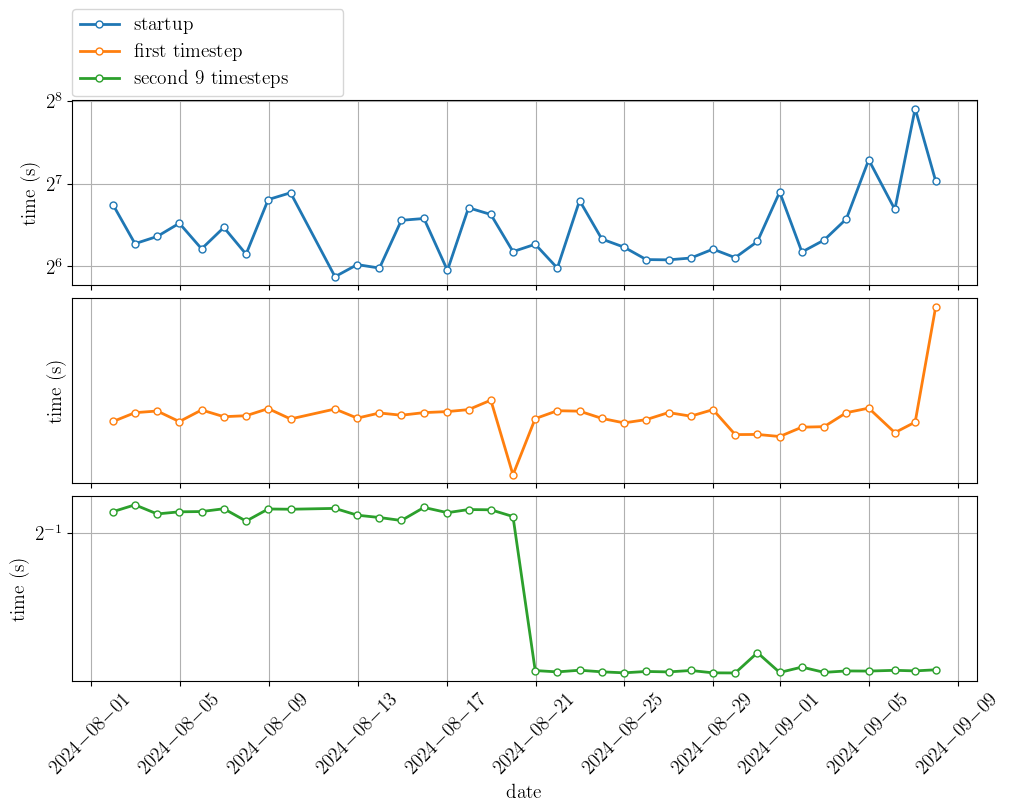
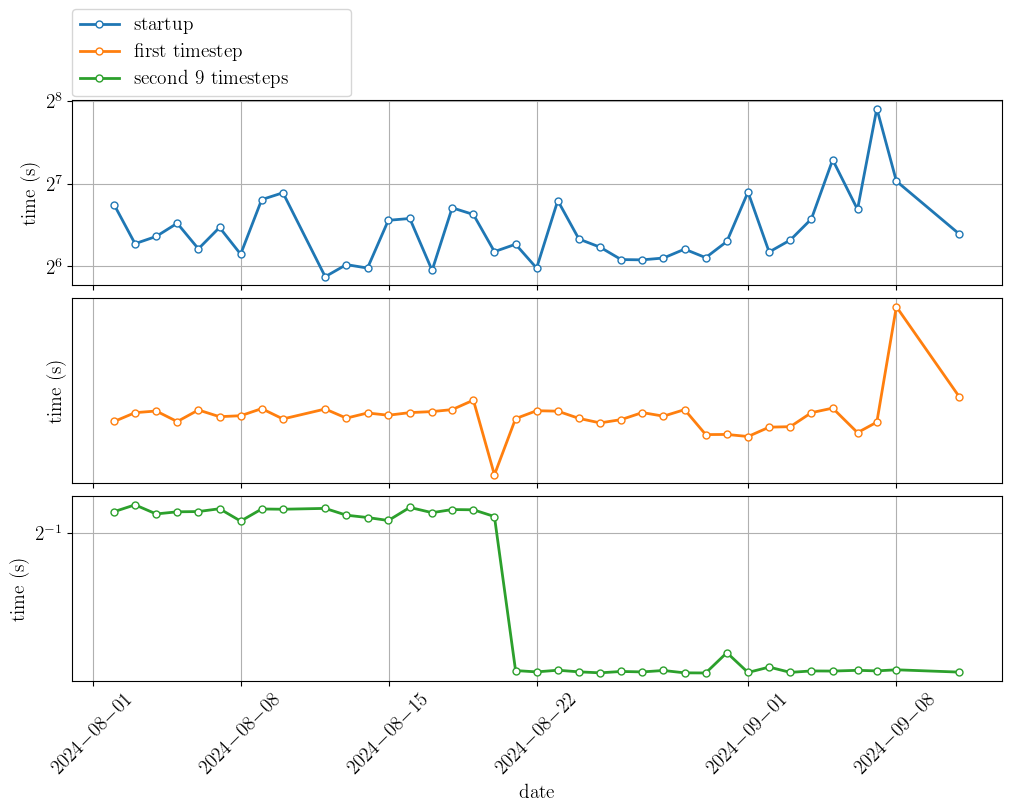
Automatic timing summary commit:

diff --git a/README.md b/README.md
@@ -1,4 +1,4 @@
-# Timing status (last ran on: 2024.09.09)
+# Timing status (last ran on: 2024.09.10)
 
 [![y3-prediction-scalability](https://github.com/illinois-ceesd/timing/actions/workflows/y3-prediction-scalability.yaml/badge.svg)](https://github.com/illinois-ceesd/timing/actions/workflows/y3-prediction-scalability.yaml) [![y2-prediction-timing](https://github.com/illinois-ceesd/timing/actions/workflows/y2-prediction-timing.yaml/badge.svg)](https://github.com/illinois-ceesd/timing/actions/workflows/y2-prediction-timing.yaml) [![isolator-timing](https://github.com/illinois-ceesd/timing/actions/workflows/isolator-timing.yaml/badge.svg)](https://github.com/illinois-ceesd/timing/actions/workflows/isolator-timing.yaml) [![flame1d-timing](https://github.com/illinois-ceesd/timing/actions/workflows/flame1d-timing.yaml/badge.svg)](https://github.com/illinois-ceesd/timing/actions/workflows/flame1d-timing.yaml) [![nozzle-timing](https://github.com/illinois-ceesd/timing/actions/workflows/nozzle-timing.yaml/badge.svg)](https://github.com/illinois-ceesd/timing/actions/workflows/nozzle-timing.yaml)
 
